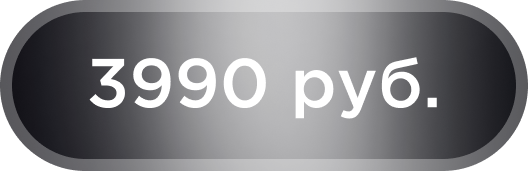
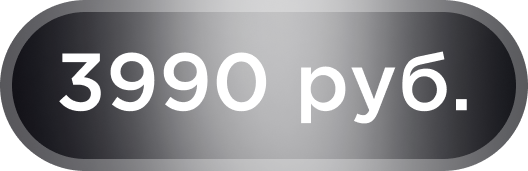
feat: update price button PNGs in MetacoinsScreen from Figma

Changed region(s): [[0.0909, 0.2924, 0.5152, 0.6725], [0.5455, 0.2924, 0.9091, 0.731]]

diff --git a/DEPLOYMENT.md b/DEPLOYMENT.md
@@ -23,6 +23,10 @@
 - ✅ Legal: 2 screens (privacy, marketing consent)
 
 ### Latest Updates (2026-01-20 - v2.2.8):
+- ✅ **Main Dashboard Updates**:
+  - **MainDashboardFreeScreen**: Removed metacoin icon, top-up button, and "150 метакоинов" text
+  - **MainDashboardPremiumScreen**: Top-up button now navigates to /metacoins (instead of /pricing)
+
 - ✅ **LabaSearchAccountScreen Functionality**:
   - Added working search input fields with state management
   - Placeholder disappears on focus
